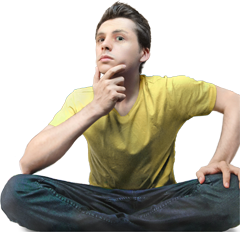
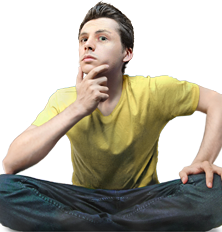
Html5 browser image rendering quality / antialiasing / filters suck...

diff --git a/css/style.css b/css/style.css
@@ -1480,7 +1480,7 @@ button {  width: auto; overflow: visible; }
 	height: 232px;  
 	background:  url('../images/resMe2.png'); 
 	background-repeat: no-repeat;
-	background-size: 240px 232px;
+	background-size: 222px 232px;
 	
 }
 
@@ -1565,7 +1565,7 @@ button {  width: auto; overflow: visible; }
 }
 
 .cvTitle{
-	display: block;
+	/*display: block;*/
 	/*padding: 26px 0px 26px 0px;*/
 	/*padding: 24px 0px 12px 0px;*/
 	/*
@@ -1580,7 +1580,17 @@ button {  width: auto; overflow: visible; }
 
 	/*border-bottom: 4px solid rgba(155,155,155,0.14); */
 	/*border-bottom: 8px solid rgba(255,255,255,0.24); */
-	border-bottom: 8px solid rgba(255,255,255,0.4);
+	border-bottom: 4px solid rgba(255,255,255,0.4);
+	
+	
+	display:inline-block;
+    transform:scale(1.2,1); /* W3C */
+    -webkit-transform:scale(1.2,1); /* Safari and Chrome */
+    -moz-transform:scale(1.2,1); /* Firefox */
+    -ms-transform:scale(1.2,1); /* IE 9 */
+    -o-transform:scale(1.2,1); /* Opera */
+	
+	color: rgb(75,75,75) !important;
 }
 
 .Noodle{
@@ -1732,9 +1742,9 @@ overflow: visible;
 	-moz-border-radius: 4px; 
 	-webkit-border-radius: 4px;   
 	/*-moz-box-shadow: 0px 4px 4px #cc332b;*/
-	-webkit-box-shadow: 0px 4px 4px rgba(76,76,76,.85);/*#4c4c4c;*/
-	-moz-box-shadow: 0px 4px 4px rgba(76,76,76,.85);
-	box-shadow: 0px 4px 4px rgba(76,76,76,.85);
+	-webkit-box-shadow: 0px 5px 8px rgba(76,76,76,.8);/*#4c4c4c;*/
+	-moz-box-shadow: 0px 5px 8px rgba(76,76,76,.8);
+	box-shadow: 0px 5px 8px rgba(76,76,76,.8);
 	border-corner-shape: bevel;
 	
 	border-top:0px;
@@ -1884,14 +1894,16 @@ overflow: visible;
 	/*width: 10em;*/
 	width: 110%;
 
-	
+	/*
 	max-width: 880px;
-	/*max-width: 1024px;*/
-	min-width: 604;
+	min-width: 604px;
+	*/
+	max-width: 894px;
+	min-width: 614px;
 	
 	margin: -16px -14px 0px -2px;
-
-	padding: 16px 14px 16px 14px;
+	/*padding: 16px 14px 16px 14px;*/
+	padding: 16px 0px 16px 14px;
 
 	/*padding-left: 38px;*/
 	/*padding-left: 15px;*/
@@ -2866,7 +2878,7 @@ overflow: visible;
 
 }
 
-#dynamicBg{ 
+#dynamicBg{ /* bg background*/
 	position:absolute;
 	background: #d7dfd4 url("../images/NoiseII-simple.jpg") no-repeat;
 	z-index: -5;

diff --git a/index.html b/index.html
@@ -139,9 +139,9 @@
 					<h2></h2>
 				</div-->
 				<div class="article cvColumn cvColumnL darkerFont" >
-					<div class="cvTitle lightFont highlight3">Of Senpai and noticing</div>
+					<div class="cvTitle lightFont highlight3">Senpai and noticing</div>
 					<div class="cvText highlight3">
-						<span class="parStart">|</span>I search for companies of fellow passionate nerds, regardless of titles. Relocation isn't a problem.
+						<span class="parStart">|</span>I search for companies of fellow passionate nerds, regardless of titles. Relocation is possible.
 						<!--span class="parStart">|</span>I search for companies of fellow nerds, no matter where on the planet, regardless of offered position, main metric being standard units of Hype.-->
 						<br/><br/>
 						<span class="parStart">|</span>I currently live in Denmark, and you can notice me at:<br/>
